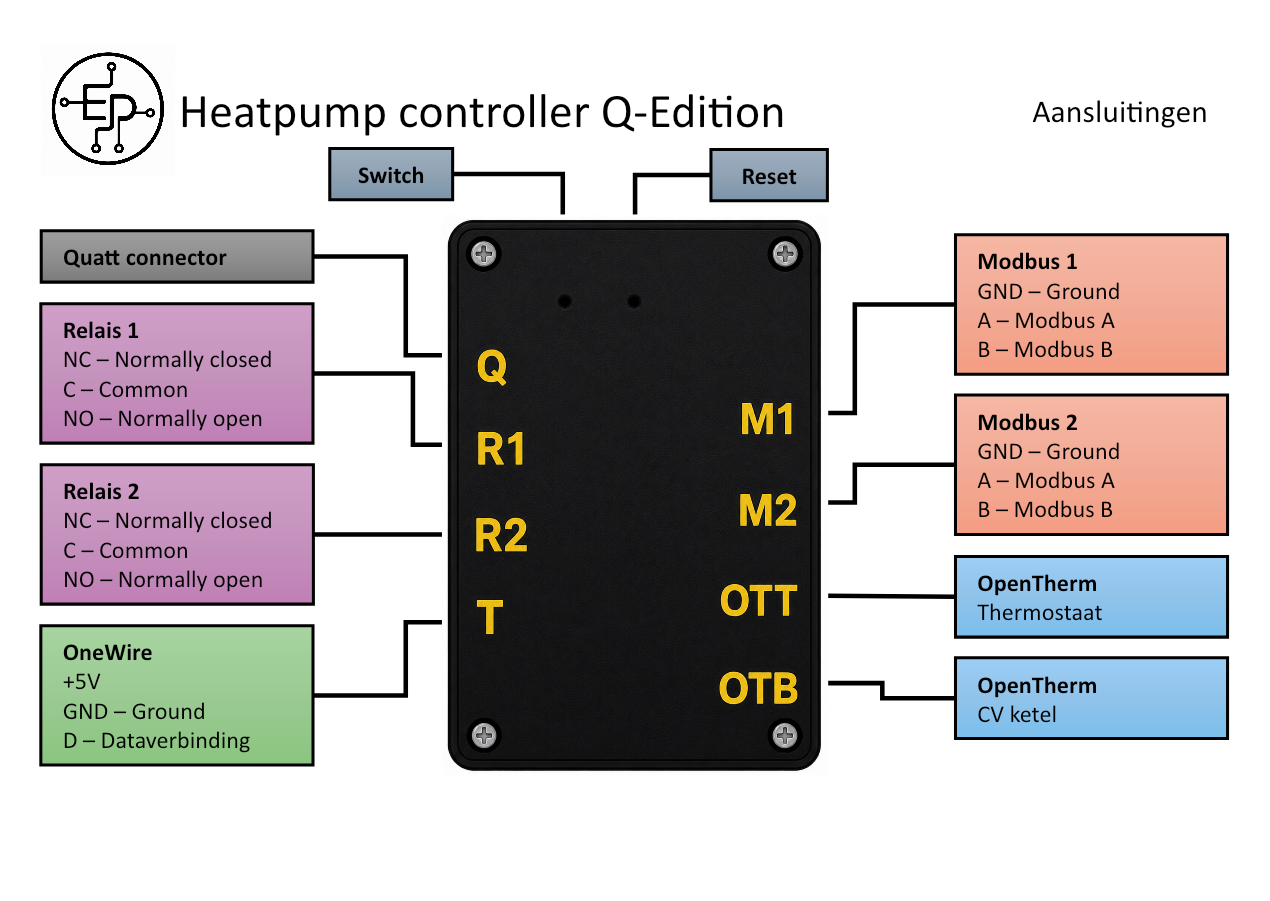
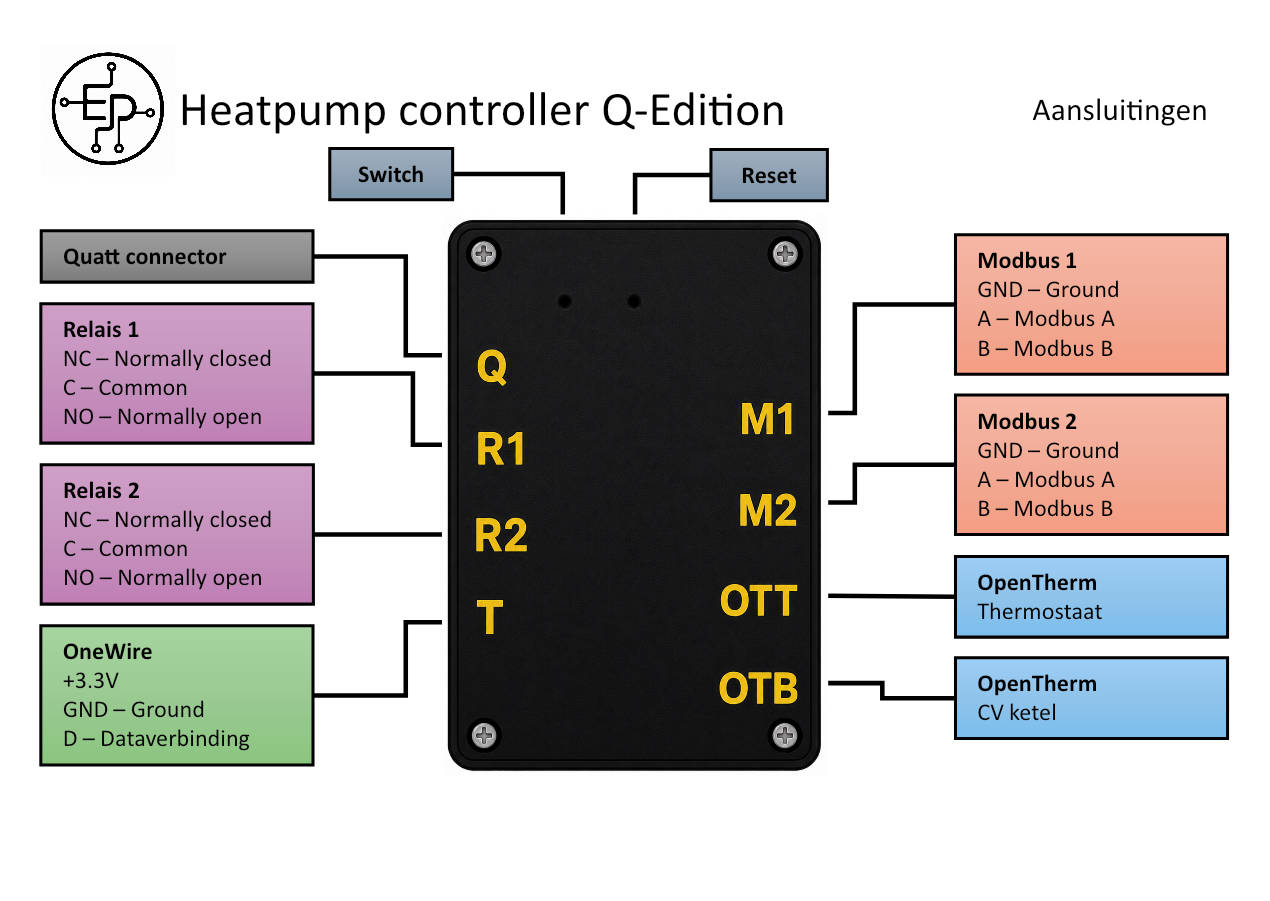
Correct HCQ T connector voltage

diff --git a/docs/q-edition.md b/docs/q-edition.md
@@ -53,7 +53,7 @@ Draadkleuren in de schema's en stappenhulp zijn illustratief. De klemmarkeringen
 - **M1** is de primaire Modbuspoort voor de Quatt-buitenunit(s). Deze verbinding is nodig voor de normale regeling.
 - **M2** is de optionele Modbuspoort voor CiC-compatibiliteit. Verbind M2 alleen met de vrijgekomen Modbuspoort van de CiC als de Quatt app moet blijven meekijken.
 - **R2** is een tweede potentiaalvrij wisselrelais met `NC`, `COM` en `NO`. Momenteel zijn er geen functies aan R2 gekoppeld; laat deze aansluiting vrij.
-- **T** is een 1-Wire-aansluiting voor een optionele Dallas/DS18B20-temperatuursensor: `+5V`, `GND` en `DATA`.
+- **T** is een 1-Wire-aansluiting voor een optionele Dallas/DS18B20-temperatuursensor: `+3.3V`, `GND` en `DATA`.
 
 ### Aansluitingen op de HCQ
 
